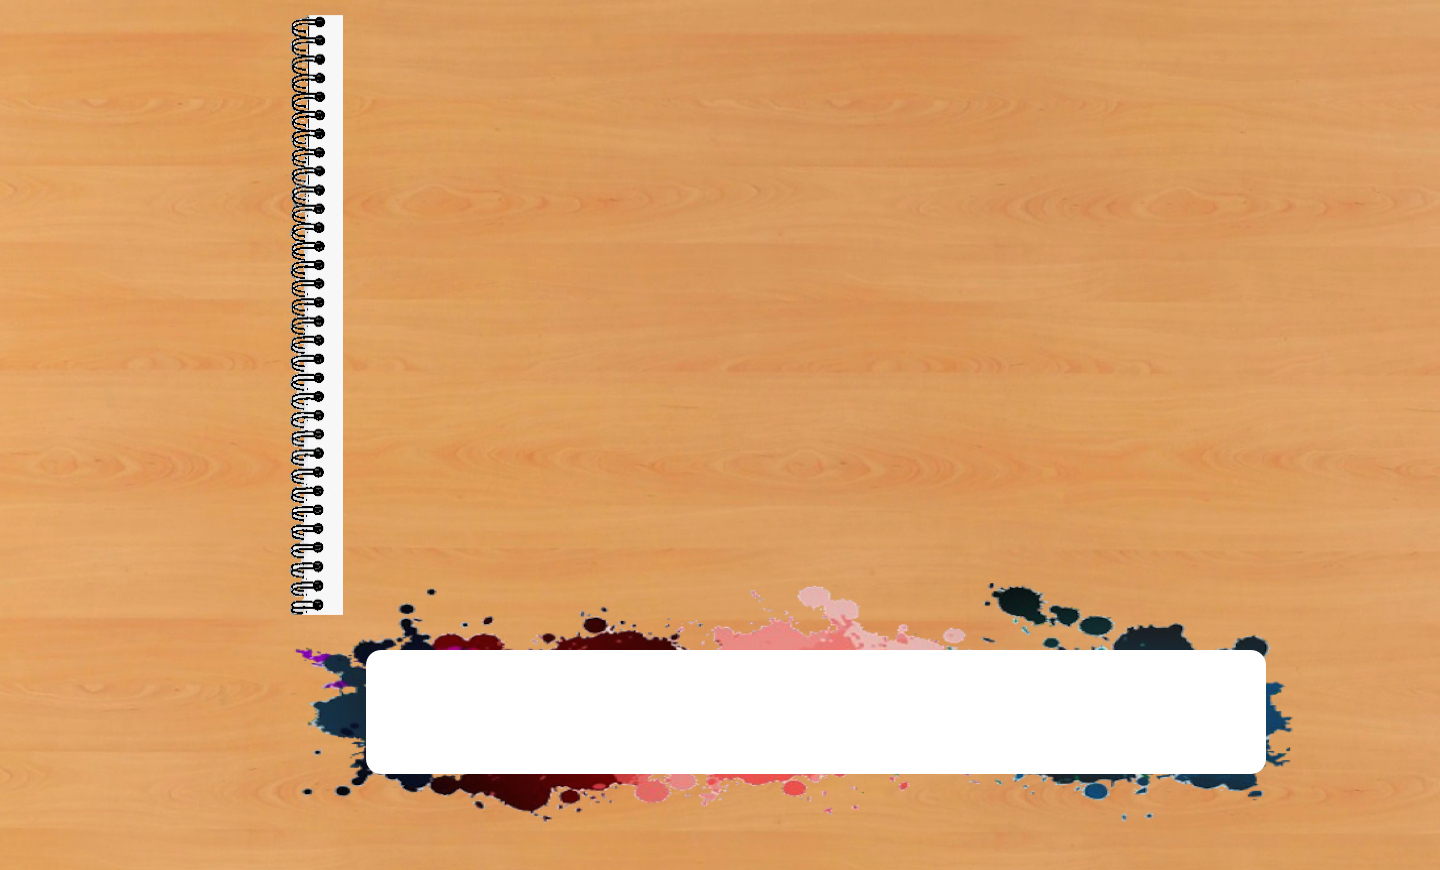
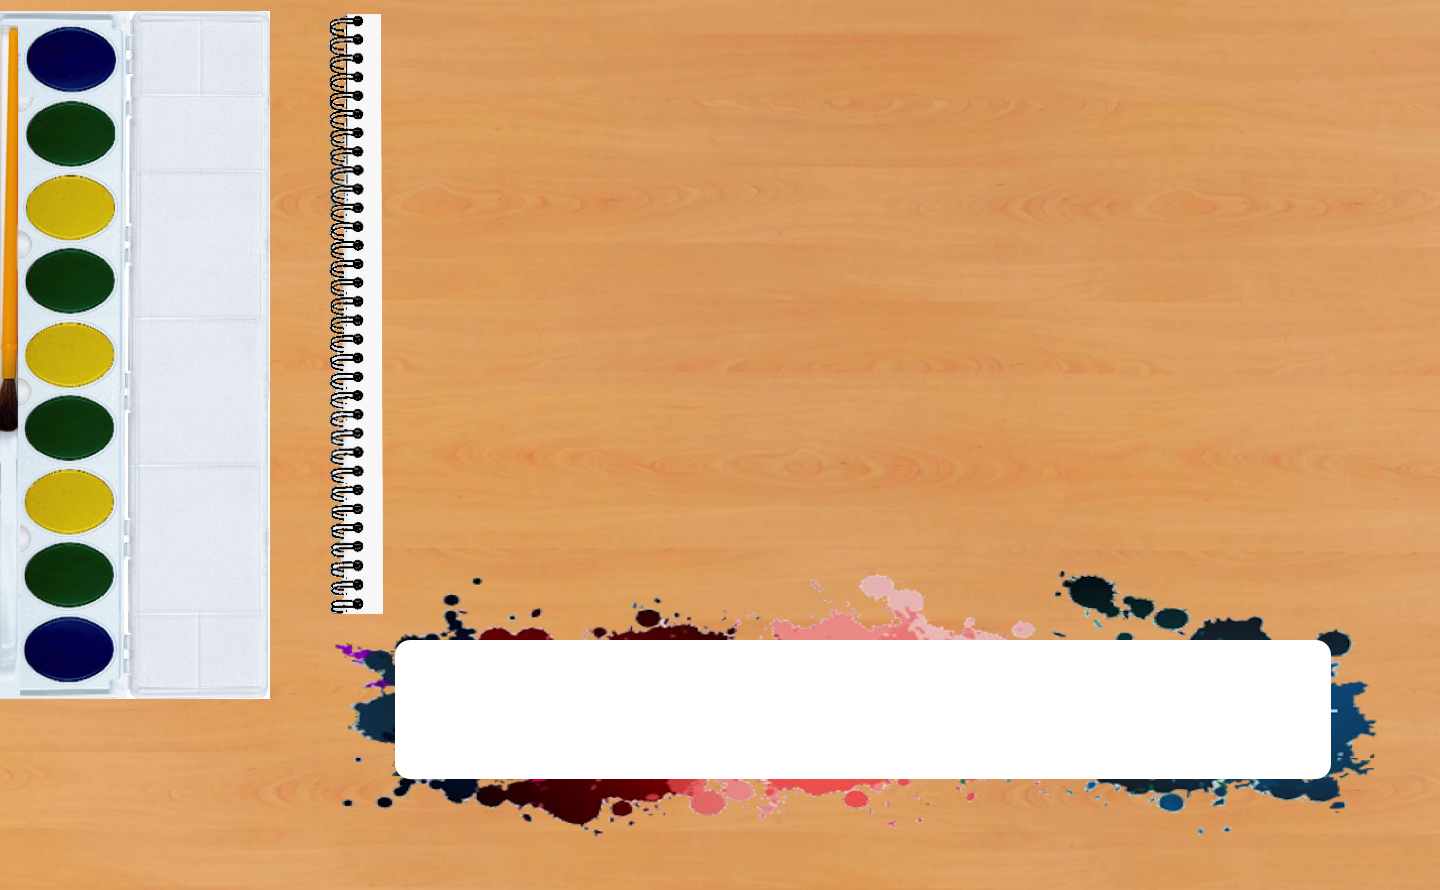
updates

Changed region(s): [[0.0, 0.0, 0.9688, 0.931]]

diff --git a/Pantimator/src/pantimator/ToolPanel.java b/Pantimator/src/pantimator/ToolPanel.java
@@ -46,7 +46,7 @@ public class ToolPanel extends JPanel {
 		//Line
         java.net.URL buttonIcon = ToolPanel.class.getResource("images/whiteLine.png");
 		line = new RoundButton(new ImageIcon(buttonIcon)); 
-		buttonIcon = ToolPanel.class.getResource("images/whiteLine.png");
+		buttonIcon = ToolPanel.class.getResource("images/brownLine.png");
 		line.setSelectedIcon(new ImageIcon(buttonIcon));
 		line.addActionListener(new ActionListener() {
 			@Override
@@ -64,7 +64,7 @@ public class ToolPanel extends JPanel {
 		//Circle
 		buttonIcon = ToolPanel.class.getResource("images/whiteCircle.png");
 		circle = new RoundButton( new ImageIcon(buttonIcon)); 
-		buttonIcon = ToolPanel.class.getResource("images/whiteCircle.png");
+		buttonIcon = ToolPanel.class.getResource("images/yellowCircle.png");
 		circle.setSelectedIcon(new ImageIcon(buttonIcon));
 		circle.addActionListener(new ActionListener() {
 			@Override
@@ -80,7 +80,7 @@ public class ToolPanel extends JPanel {
 		//Square
 		buttonIcon = ToolPanel.class.getResource("images/whiteSquare.png");
 		square = new RoundButton( new ImageIcon(buttonIcon)); 
-		buttonIcon = ToolPanel.class.getResource("images/whiteSquare.png");
+		buttonIcon = ToolPanel.class.getResource("images/greenSquare.png");
 		square.setSelectedIcon(new ImageIcon(buttonIcon));
 		square.addActionListener(new ActionListener() {
 			@Override
@@ -96,7 +96,7 @@ public class ToolPanel extends JPanel {
 		//triangle
 		buttonIcon = ToolPanel.class.getResource("images/whiteTriangle.png");
 		triangle = new RoundButton( new ImageIcon(buttonIcon));  
-		buttonIcon = ToolPanel.class.getResource("images/whiteTriangle.png");
+		buttonIcon = ToolPanel.class.getResource("images/blueTriangle.png");
 		triangle.setSelectedIcon(new ImageIcon(buttonIcon));
 		triangle.addActionListener(new ActionListener() {
 			@Override
@@ -112,7 +112,7 @@ public class ToolPanel extends JPanel {
 		//Draw
 		buttonIcon = ToolPanel.class.getResource("images/whiteDraw.png");
 		draw = new RoundButton( new ImageIcon(buttonIcon));
-		buttonIcon = ToolPanel.class.getResource("images/whiteDraw.png");
+		buttonIcon = ToolPanel.class.getResource("images/greenDraw.png");
 		draw.setSelectedIcon(new ImageIcon(buttonIcon));
 		//draw.setPressedIcon(new ImageIcon(buttonIcon));
 		draw.addActionListener(new ActionListener() {
@@ -131,7 +131,7 @@ public class ToolPanel extends JPanel {
 		//Text
 		buttonIcon = ToolPanel.class.getResource("images/whiteText.png");
 		text = new RoundButton( new ImageIcon(buttonIcon)); 
-		buttonIcon = ToolPanel.class.getResource("images/whiteText.png");
+		buttonIcon = ToolPanel.class.getResource("images/orangeText.png");
 		text.setSelectedIcon(new ImageIcon(buttonIcon));
 		text.addActionListener(new ActionListener() {
 			@Override
@@ -147,7 +147,7 @@ public class ToolPanel extends JPanel {
 		//erasing
 		buttonIcon = ToolPanel.class.getResource("images/whiteEraser.png");
 		erase = new RoundButton( new ImageIcon(buttonIcon));
-		buttonIcon = ToolPanel.class.getResource("images/whiteEraser.png");
+		buttonIcon = ToolPanel.class.getResource("images/blackEraser.png");
 		erase.setSelectedIcon(new ImageIcon(buttonIcon));
 		//erase.setPressedIcon(new ImageIcon(buttonIcon));
 		erase.addActionListener(new ActionListener() {
@@ -164,7 +164,7 @@ public class ToolPanel extends JPanel {
 		//paint
 		buttonIcon = ToolPanel.class.getResource("images/whitePaint.png");
 		paint = new RoundButton( new ImageIcon(buttonIcon));
-		buttonIcon = ToolPanel.class.getResource("images/whitePaint.png");
+		buttonIcon = ToolPanel.class.getResource("images/bluePaint.png");
 		paint.setSelectedIcon(new ImageIcon(buttonIcon));
 		//paint.setPressedIcon(new ImageIcon(buttonIcon));
 		paint.addActionListener(new ActionListener() {
@@ -183,7 +183,7 @@ public class ToolPanel extends JPanel {
 
 		buttonIcon = ToolPanel.class.getResource("images/whiteBucket.png");
 		bucket = new RoundButton( new ImageIcon(buttonIcon));
-		buttonIcon = ToolPanel.class.getResource("images/redBucket2.png");
+		buttonIcon = ToolPanel.class.getResource("images/redBucket.png");
 		bucket.setSelectedIcon(new ImageIcon(buttonIcon));
 		bucket.setPressedIcon(new ImageIcon(buttonIcon));
 		bucket.addActionListener(new ActionListener() {

diff --git a/Pantimator/src/pantimator/Paintimator.java b/Pantimator/src/pantimator/Paintimator.java
@@ -51,7 +51,7 @@ public class Paintimator extends JFrame{
 	private int height = 900;
 	private int width = 1440;
 	
-	private boolean debug = true;
+	private boolean debug = false;
 
 	public Paintimator() throws IOException, UnsupportedAudioFileException, LineUnavailableException{
 		super();
@@ -60,7 +60,7 @@ public class Paintimator extends JFrame{
 		this.setTitle(FRAME_TITLE);
 		
 		//create a contentPane that can hold an image
-        contentPane = new BackgroundPanel("images/background.png");
+        contentPane = new BackgroundPanel("images/background2.png");
         contentPane.setLayout(new BorderLayout());
 		
 
@@ -114,7 +114,7 @@ public class Paintimator extends JFrame{
 		optionsPanel.setOpaque(false);
 		cwPanel.setOpaque(false);
 		sidePanel.setOpaque(false);
-		sidePanel.setPreferredSize(new Dimension(300, height));
+		sidePanel.setPreferredSize(new Dimension(280, height));
 
 		//menu bar
 		menu = new MyMenu(this);

diff --git a/Pantimator/src/pantimator/RoundButton.java b/Pantimator/src/pantimator/RoundButton.java
@@ -35,7 +35,7 @@ class RoundButton extends JButton {
 			return;
 		}
 		setBorder(BorderFactory.createEmptyBorder(1,1,1,1));
-		setBackground(Color.BLACK);
+		setBackground(new Color(0, 0, 0, 0));
 		setContentAreaFilled(false);
 		setFocusPainted(false);
 		setAlignmentY(Component.TOP_ALIGNMENT);
@@ -66,6 +66,7 @@ class RoundButton extends JButton {
 		Graphics2D g2 = (Graphics2D)g;
 		g2.setRenderingHint(RenderingHints.KEY_ANTIALIASING,
 				RenderingHints.VALUE_ANTIALIAS_ON);
+		//g2.setColor(new Color(0, 0, 0, 0));
 		g2.setColor(Color.BLACK);
 		g2.draw(shape);
 		g2.setRenderingHint(RenderingHints.KEY_ANTIALIASING,
